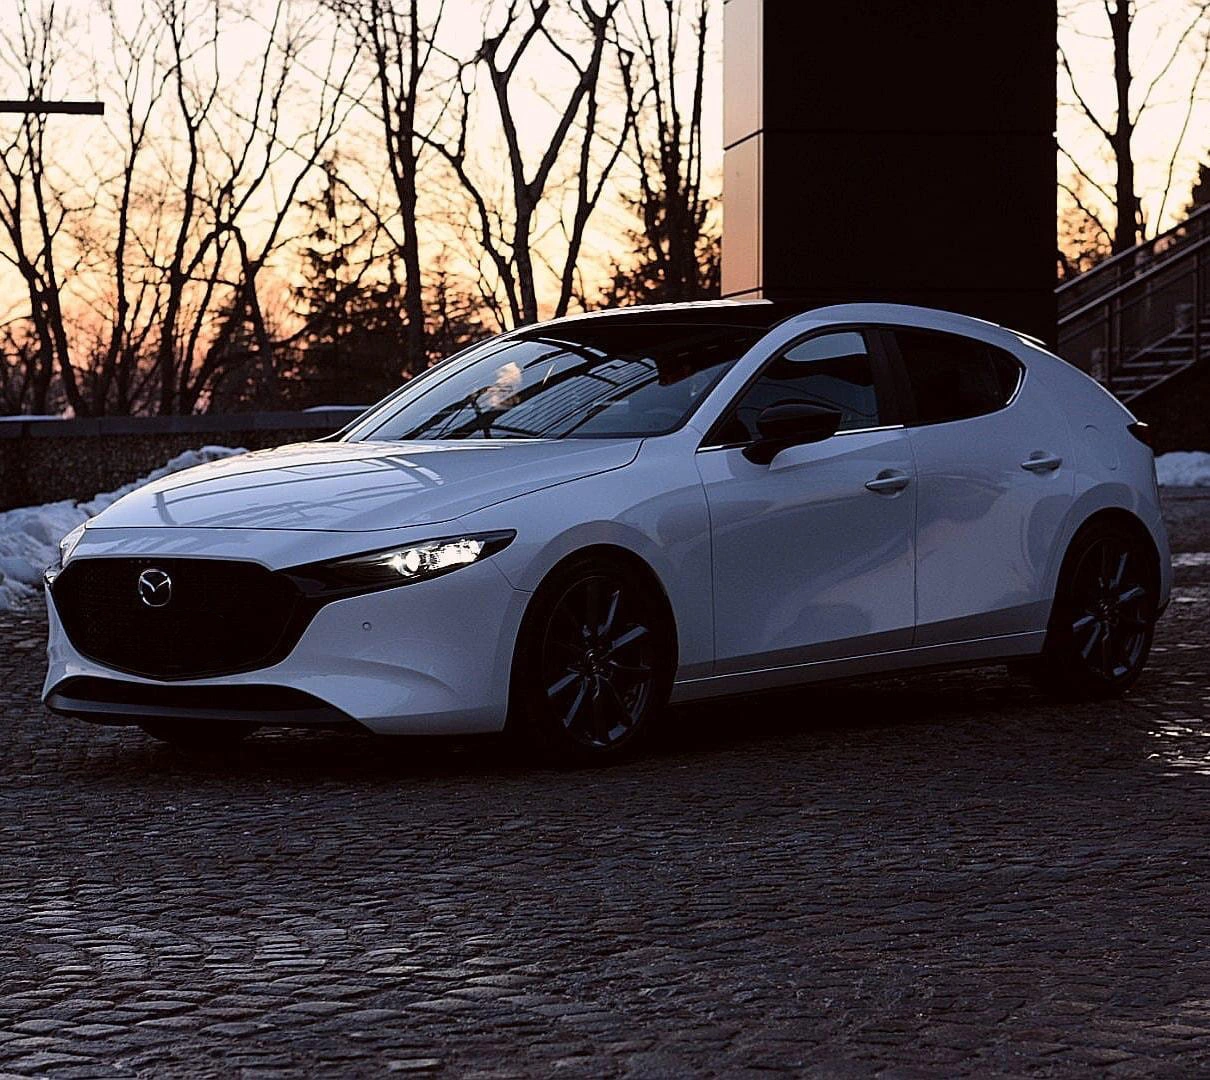
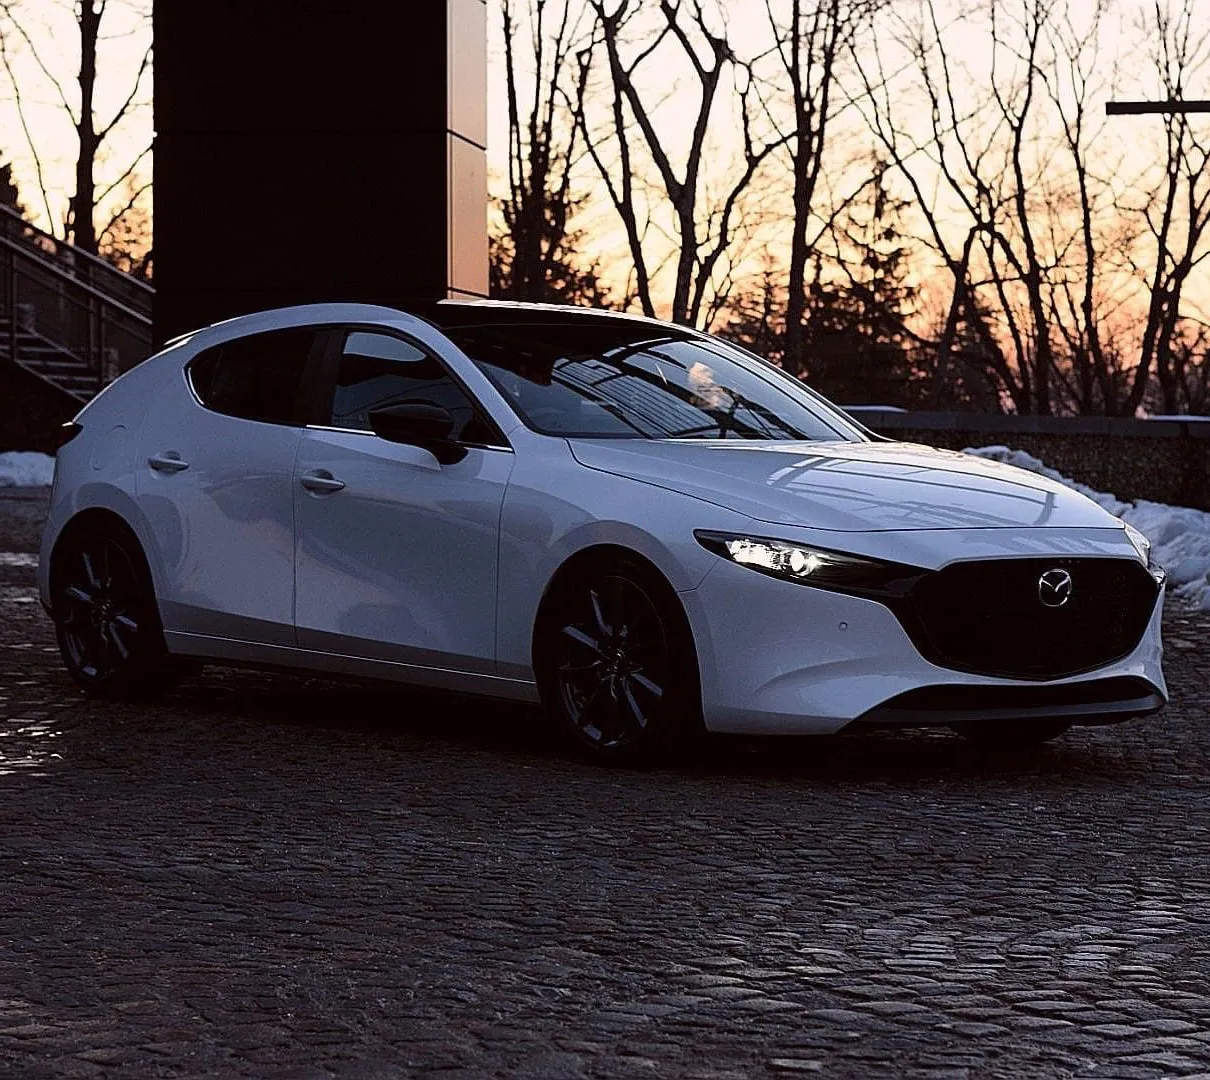
Added optimization

diff --git a/src/css/components/Hero.css b/src/css/components/Hero.css
@@ -1,24 +1,20 @@
 .hero-container {
   padding: 0 1rem;
   background: radial-gradient(
-      ellipse at left,
+      ellipse at right,
       hsl(from var(--primary-color) h s l / 0.2),
       var(--primary-color) 55%
     ),
     url("/hero-bg-big.webp");
   background-repeat: no-repeat;
-  background-position: 40% 60%, 0 center;
+  background-position: 40% 60%, 100% center;
   background-size: 100% 140%, 80%;
   width: 100%;
   height: 100svh;
   display: flex;
   justify-content: center;
   align-items: center;
-  transform: scaleX(-1);
   z-index: 0;
-}
-.hero-container .container {
-  transform: scaleX(-1);
 }
 
 .hero-container p {
@@ -43,12 +39,7 @@
       ),
       url("/hero-bg-small.webp");
     background-size: cover;
-    transform: none;
     background-position: center center;
-  }
-
-  .hero-container .container {
-    transform: none;
   }
 }
 
